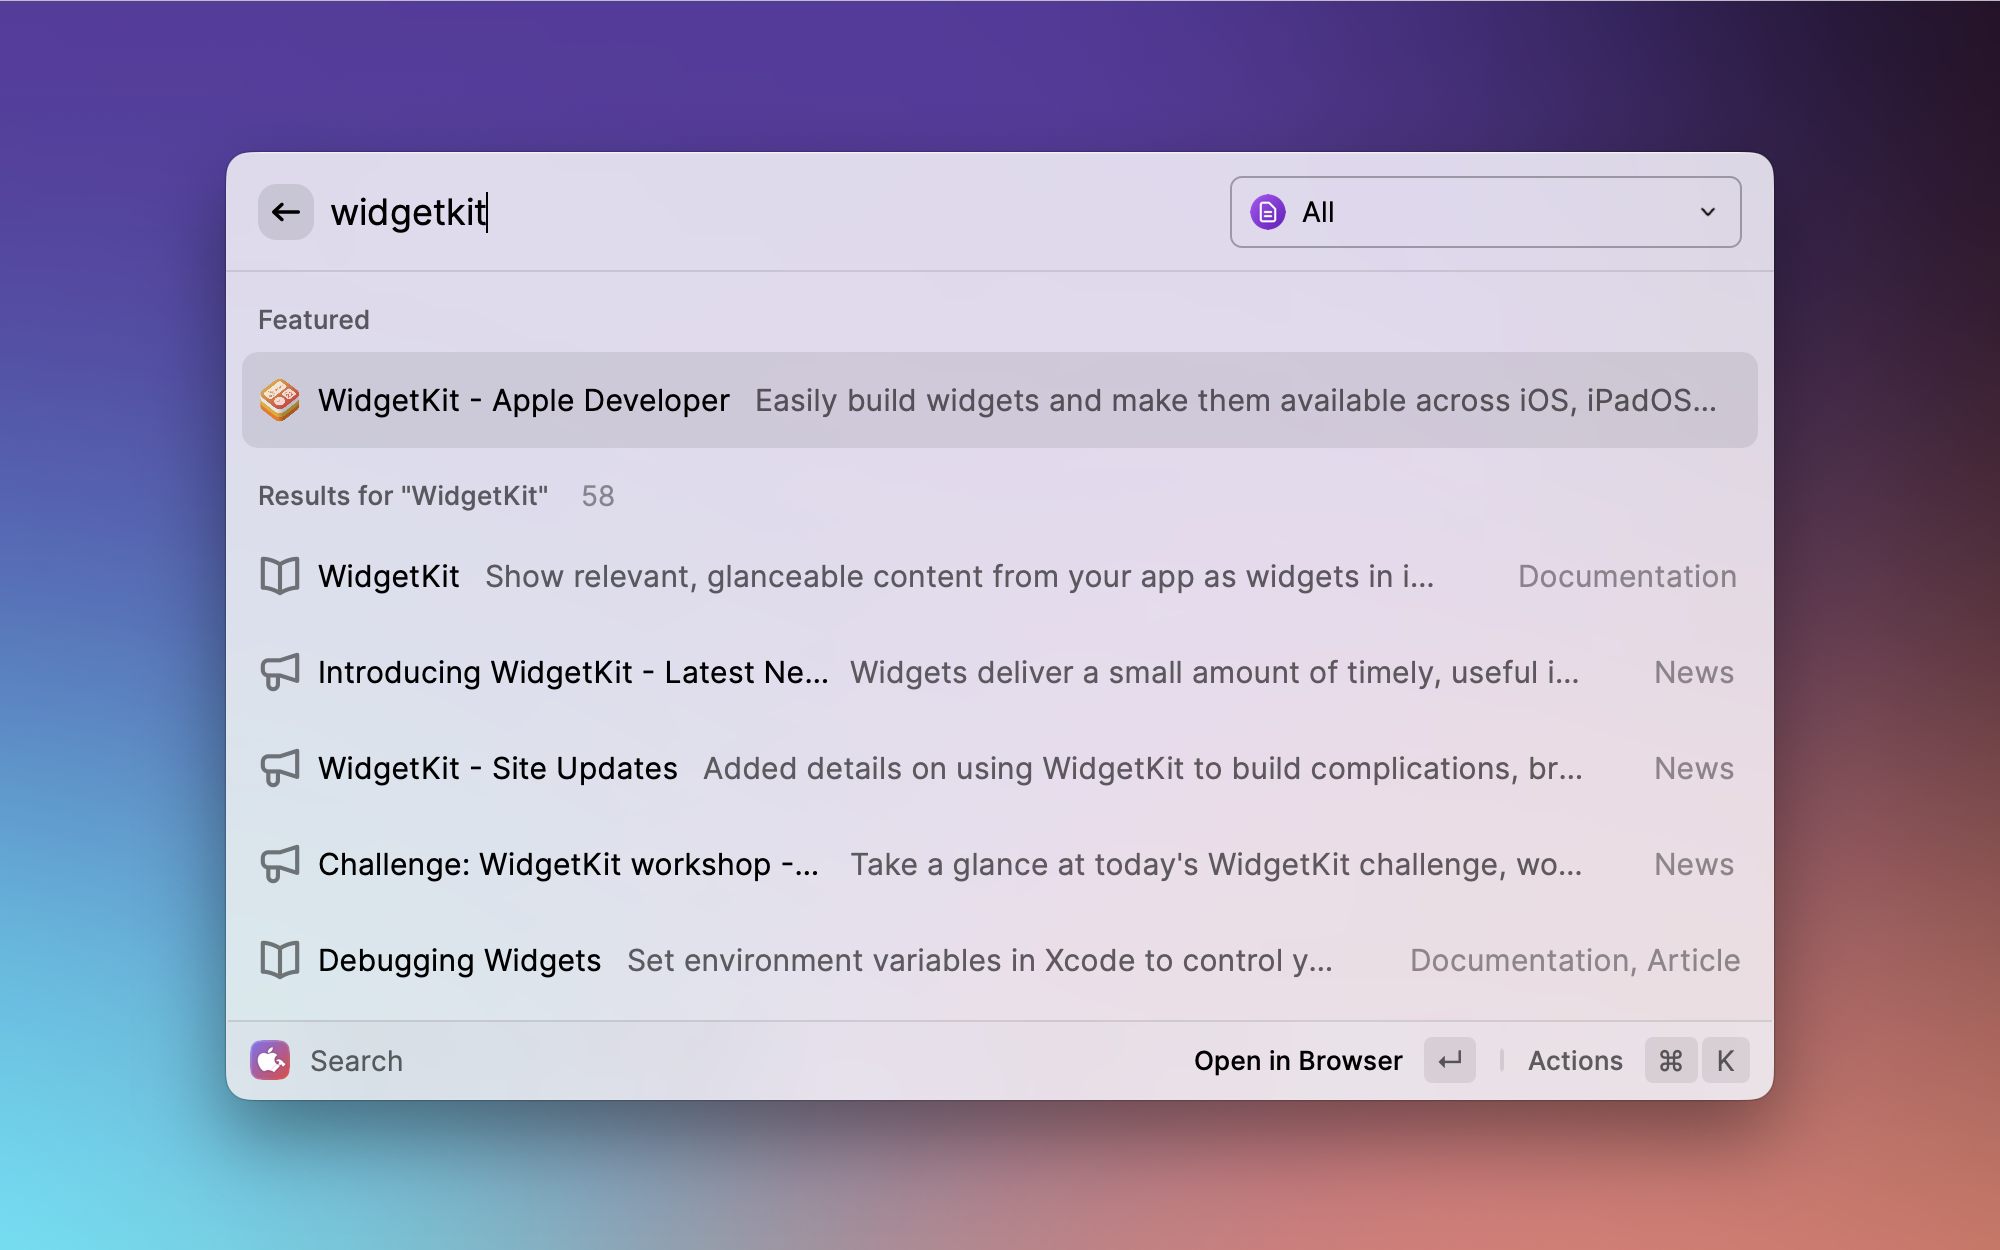
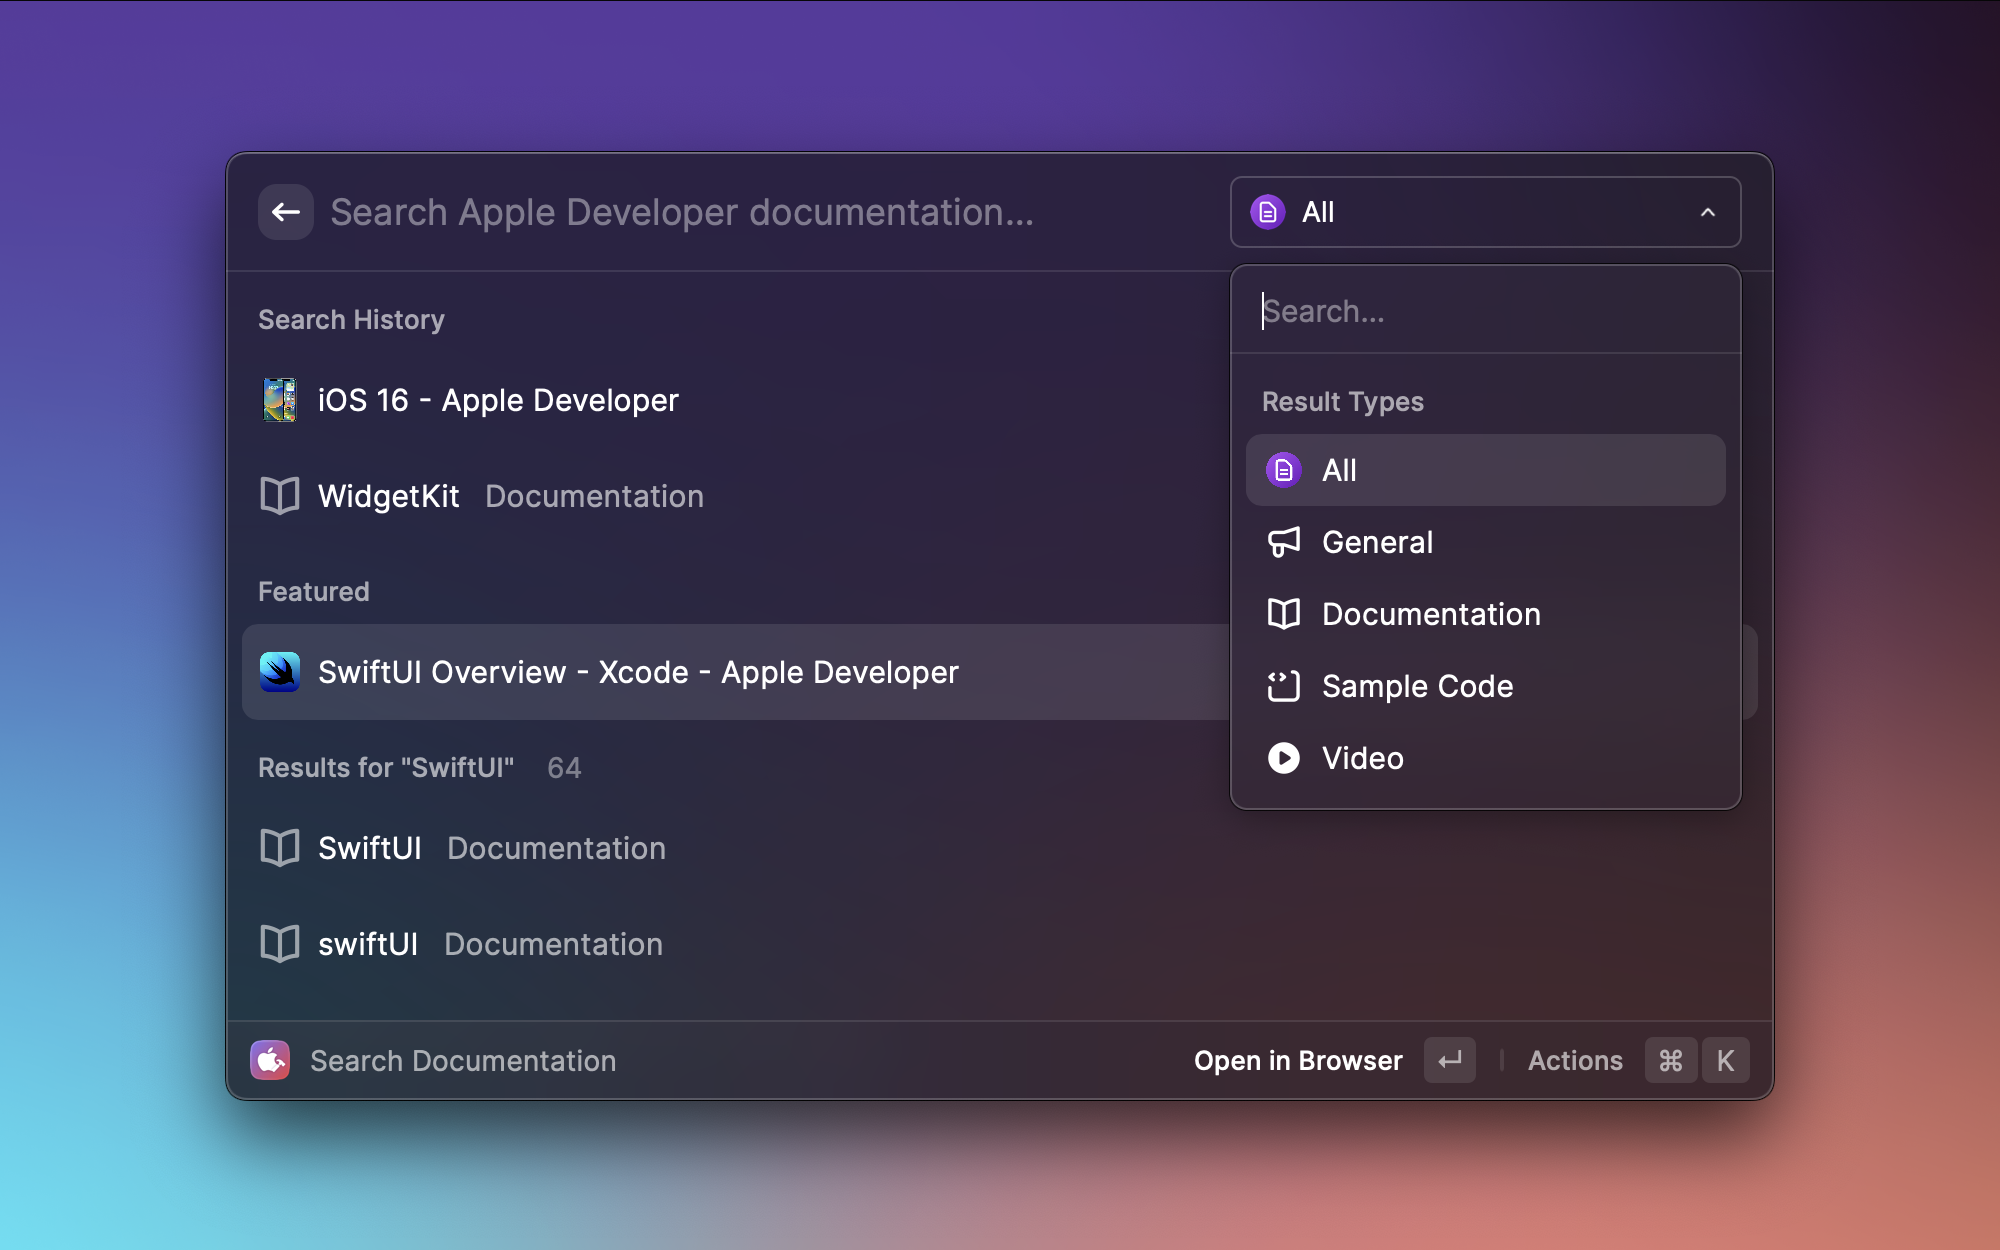
Improve search experience by adding history (#2454)
* Improve search experience by adding history

* Update extensions/apple-developer-docs/src/index.tsx

diff --git a/extensions/apple-developer-docs/src/index.tsx b/extensions/apple-developer-docs/src/index.tsx
@@ -1,8 +1,10 @@
 import { Action, ActionPanel, List } from "@raycast/api";
-import { useCallback, useMemo, useState } from "react";
+import { useCallback, useEffect, useMemo, useState } from "react";
 import { capitalizeRecursively, getIcon, makeUrl, makeUrlMarkdown } from "./utils";
 import { config } from "./config";
 import { useFetch } from "@raycast/utils";
+import useSearchedResults from "./hooks/useSearchedResults";
+import DevOnlyActionPanel from "./DevOnlyActionPanel";
 
 export default function Command() {
   const [searchText, setSearchText] = useState("");
@@ -32,16 +34,25 @@ export default function Command() {
   }, []);
   const results = useMemo(() => {
     const { results } = data;
-    switch (typeFilter.toLowerCase()) {
-      case "general":
-      case "documentation":
-      case "sample_code":
-      case "video":
-        return results.filter((result) => result.type === typeFilter);
-      default:
-        return results;
+    if (typeFilter.toLowerCase() === "all") {
+      return results;
     }
+
+    return results.filter((result) => result.type === typeFilter);
   }, [data.results, typeFilter]);
+
+  const { results: searchedResults, markAsSearched } = useSearchedResults();
+  const filteredSearchedResults = useMemo(() => {
+    if (typeFilter.toLowerCase() === "all") {
+      return searchedResults;
+    }
+
+    const filteredResults = searchedResults?.filter((result) => result.type === typeFilter.toLowerCase());
+
+    return filteredResults?.filter(
+      (result) => searchText.trim() === "" || result.title.toLowerCase().includes(searchText.toLowerCase())
+    );
+  }, [searchedResults, searchText, typeFilter]);
 
   return (
     <List
@@ -53,62 +64,69 @@ export default function Command() {
       }
       throttle
     >
+      {filteredSearchedResults && filteredSearchedResults.length > 0 && (
+        <List.Section title="Searched">
+          {filteredSearchedResults.map((result, i) => (
+            <SearchListItem key={i} result={result} onVisit={markAsSearched} />
+          ))}
+        </List.Section>
+      )}
       {typeof data.featuredResult !== "string" && (
         <List.Section title="Featured">
-          <SearchFeaturedItem featured={data.featuredResult} />
+          <SearchListItem result={data.featuredResult} onVisit={markAsSearched} />
         </List.Section>
       )}
       <List.Section title={resultsTitle} subtitle={results.length + ""}>
         {results.map((result) => (
-          <SearchListItem key={`${result.order}_${result.url}`} result={result} />
+          <SearchListItem key={`${result.order}_${result.url}`} result={result} onVisit={markAsSearched} />
         ))}
       </List.Section>
     </List>
   );
 }
 
-function ItemActionPanel({ url, title }: { url: string; title?: string }) {
+function ItemActionPanel({ result, onVisit }: { result: ResultLike } & Visitable) {
+  const { title } = result;
+  const url = useMemo(() => makeUrl(result.url), [result.url]);
+  const markAsSearched = useCallback(() => {
+    onVisit(result);
+  }, [onVisit, result]);
+
   return (
     <ActionPanel>
       <ActionPanel.Section>
-        <Action.OpenInBrowser title="Open in Browser" url={url} />
+        <Action.OpenInBrowser title="Open in Browser" url={url} onOpen={markAsSearched} />
       </ActionPanel.Section>
       <ActionPanel.Section>
-        <Action.CopyToClipboard title="Copy URL" content={url} shortcut={{ modifiers: ["cmd"], key: "." }} />
+        <Action.CopyToClipboard
+          title="Copy URL"
+          content={url}
+          shortcut={{ modifiers: ["cmd"], key: "." }}
+          onCopy={markAsSearched}
+        />
         <Action.CopyToClipboard
           title="Copy URL in Markdown"
           content={makeUrlMarkdown(url, title)}
           shortcut={{ modifiers: ["cmd", "shift"], key: "." }}
+          onCopy={markAsSearched}
         />
       </ActionPanel.Section>
+      <DevOnlyActionPanel />
     </ActionPanel>
   );
 }
 
-function SearchFeaturedItem({ featured }: { featured: FeaturedResult }) {
-  const url = useMemo(() => makeUrl(featured.url), [featured.url]);
-
-  return (
-    <List.Item
-      title={featured.title}
-      icon={makeUrl(featured.icon)}
-      subtitle={featured.description}
-      actions={<ItemActionPanel url={url} title={featured.title} />}
-    />
-  );
-}
-
-function SearchListItem({ result }: { result: SearchResult }) {
-  const icon = useMemo(() => getIcon(result.type), [result.type]);
-  const url = useMemo(() => makeUrl(result.url), [result.url]);
+function SearchListItem({ result, onVisit }: { result: ResultLike } & Visitable) {
+  const icon = useMemo(() => {
+    return result.type === "featured" ? makeUrl((result as FeaturedResult).icon) : getIcon(result.type);
+  }, [result]);
 
   return (
     <List.Item
       title={result.title}
       icon={icon}
-      subtitle={result.description}
-      accessories={[{ text: result.platform.join(", "), icon: result.tile_image }]}
-      actions={<ItemActionPanel url={url} title={result.title} />}
+      subtitle={result.type !== "featured" ? (result as SearchResult).platform.join(", ") : undefined}
+      actions={<ItemActionPanel result={result} onVisit={onVisit} />}
     />
   );
 }

diff --git a/extensions/apple-developer-docs/src/hooks/useSearchedResults.ts b/extensions/apple-developer-docs/src/hooks/useSearchedResults.ts
@@ -1,0 +1,44 @@
+import { LocalStorage } from "@raycast/api";
+import { useState, useEffect } from "react";
+import { equals } from "../utils";
+
+const SEARCHED_RESULTS_KEY = "SEARCHED_RESULTS";
+const MAX_SEARCHED_RESULTS_COUNT = 20;
+
+async function load() {
+  const result = await LocalStorage.getItem<string>(SEARCHED_RESULTS_KEY);
+  if (result) {
+    const parsed = JSON.parse(result);
+    return parsed as ResultLike[];
+  } else {
+    return [];
+  }
+}
+
+async function save(results: ResultLike[]) {
+  const result = JSON.stringify(results);
+  await LocalStorage.setItem(SEARCHED_RESULTS_KEY, result);
+}
+
+export async function clear() {
+  await LocalStorage.removeItem(SEARCHED_RESULTS_KEY);
+}
+
+export default function useSearchedResults() {
+  const [results, setResults] = useState<ResultLike[]>();
+
+  useEffect(() => {
+    load().then(setResults);
+  }, []);
+
+  const markAsSearched = (result: ResultLike) => {
+    const newResults = [result, ...(results?.filter((r) => !equals(r, result)) ?? [])].slice(
+      0,
+      MAX_SEARCHED_RESULTS_COUNT
+    );
+    setResults(newResults);
+    save(newResults);
+  };
+
+  return { results, isLoading: !results, markAsSearched };
+}

diff --git a/extensions/apple-developer-docs/src/DevOnlyActionPanel.tsx b/extensions/apple-developer-docs/src/DevOnlyActionPanel.tsx
@@ -1,0 +1,28 @@
+import { Action, ActionPanel, environment, Icon, showToast, Toast } from "@raycast/api";
+import { clear } from "./hooks/useSearchedResults";
+
+export default function DevOnlyActionPanel() {
+  async function handleClear() {
+    const toast = await showToast({
+      style: Toast.Style.Animated,
+      title: "Clearing searched results",
+    });
+
+    try {
+      await clear();
+      toast.style = Toast.Style.Success;
+      toast.title = "Cleared searched results";
+    } catch (error) {
+      toast.style = Toast.Style.Failure;
+      toast.title = "Failed clearing searched results";
+      toast.message = error instanceof Error ? error.message : undefined;
+      console.error("Failed clearing searched results", error);
+    }
+  }
+
+  return environment.isDevelopment ? (
+    <ActionPanel.Section title="Development">
+      <Action icon={Icon.Trash} title="Clear Searched Results" onAction={handleClear} />
+    </ActionPanel.Section>
+  ) : null;
+}

diff --git a/extensions/apple-developer-docs/src/types.d.ts b/extensions/apple-developer-docs/src/types.d.ts
@@ -25,6 +25,7 @@ type FeaturedResult = Pick<SearchResult, "title" | "description" | "url"> & {
   score: number;
   type: "featured";
 };
+type ResultLike = SearchResult | FeaturedResult;
 
 type SuggestedQuery = {
   query: string;
@@ -38,3 +39,7 @@ type PayloadResponse = {
   suggested_query: SuggestedQuery | "";
   uuid: string;
 };
+
+interface Visitable {
+  onVisit: (result: ResultLike) => void;
+}

diff --git a/extensions/apple-developer-docs/src/utils.ts b/extensions/apple-developer-docs/src/utils.ts
@@ -40,3 +40,7 @@ export const getIcon = (type: string): ImageLike => {
 
 export const capitalize = (s: string) => s.charAt(0).toUpperCase() + s.slice(1);
 export const capitalizeRecursively = (s: string) => s.split(" ").map(capitalize).join(" ");
+
+export const equals = (a: ResultLike, b: ResultLike) => {
+  return a.title === b.title && a.url === b.url;
+};

diff --git a/extensions/apple-developer-docs/CHANGELOG.md b/extensions/apple-developer-docs/CHANGELOG.md
@@ -1,3 +1,7 @@
 # Apple Developer Docs Changelog
 
+## [Search History] - 2022-08-02
+- Added search history for searched items.
+- Reduced the often-truncated description clutter for list items.
+
 ## [Initial Version] - 2022-07-24
